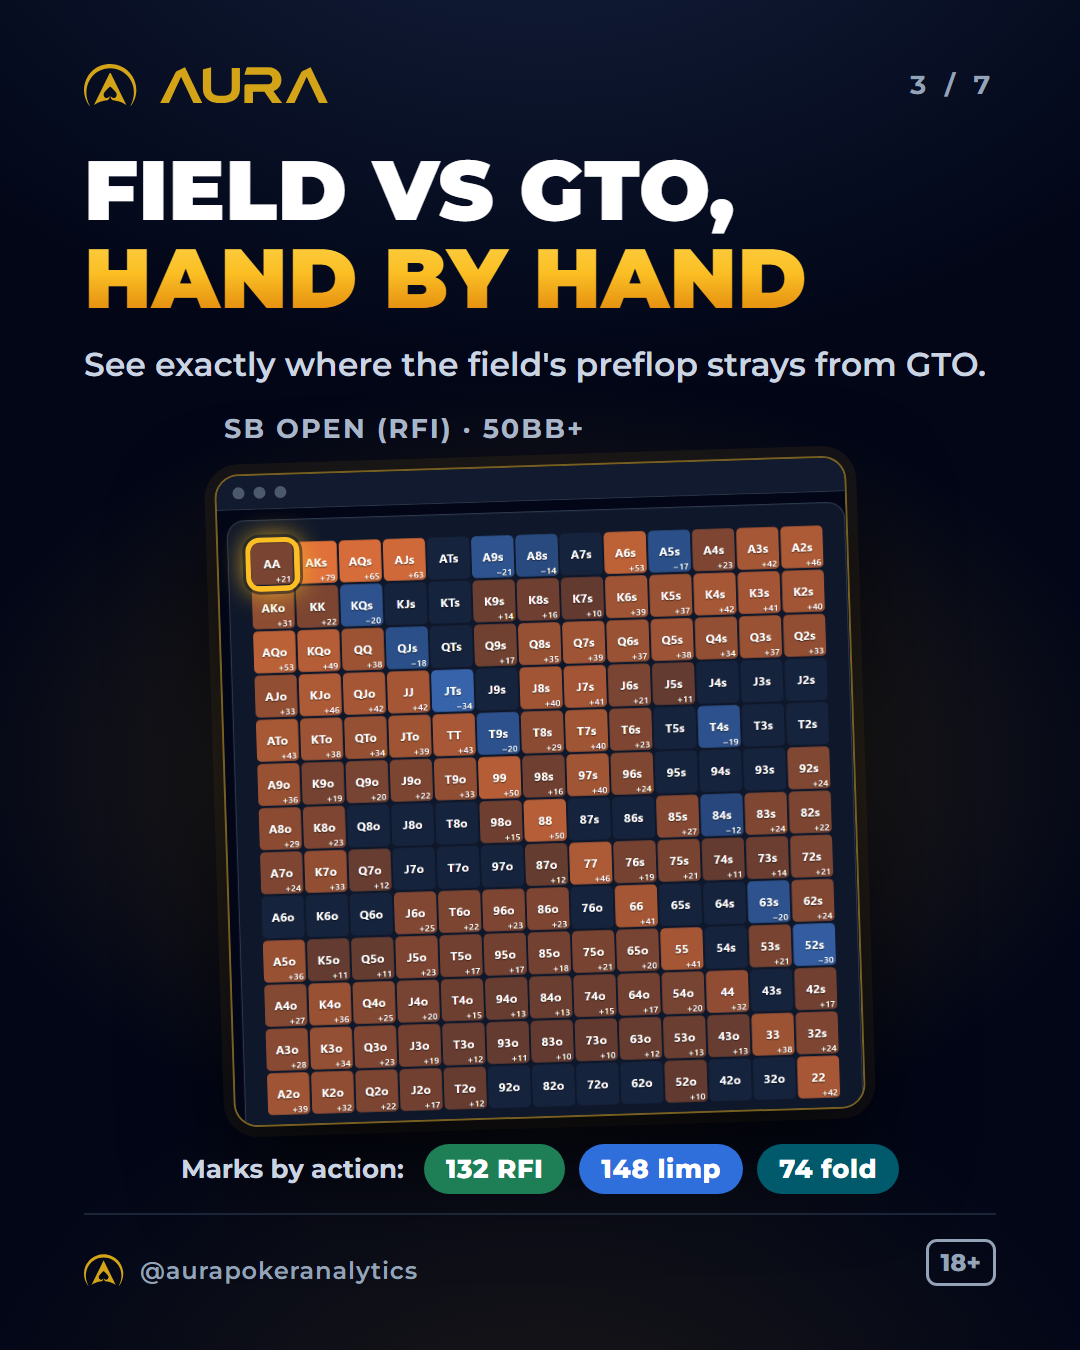
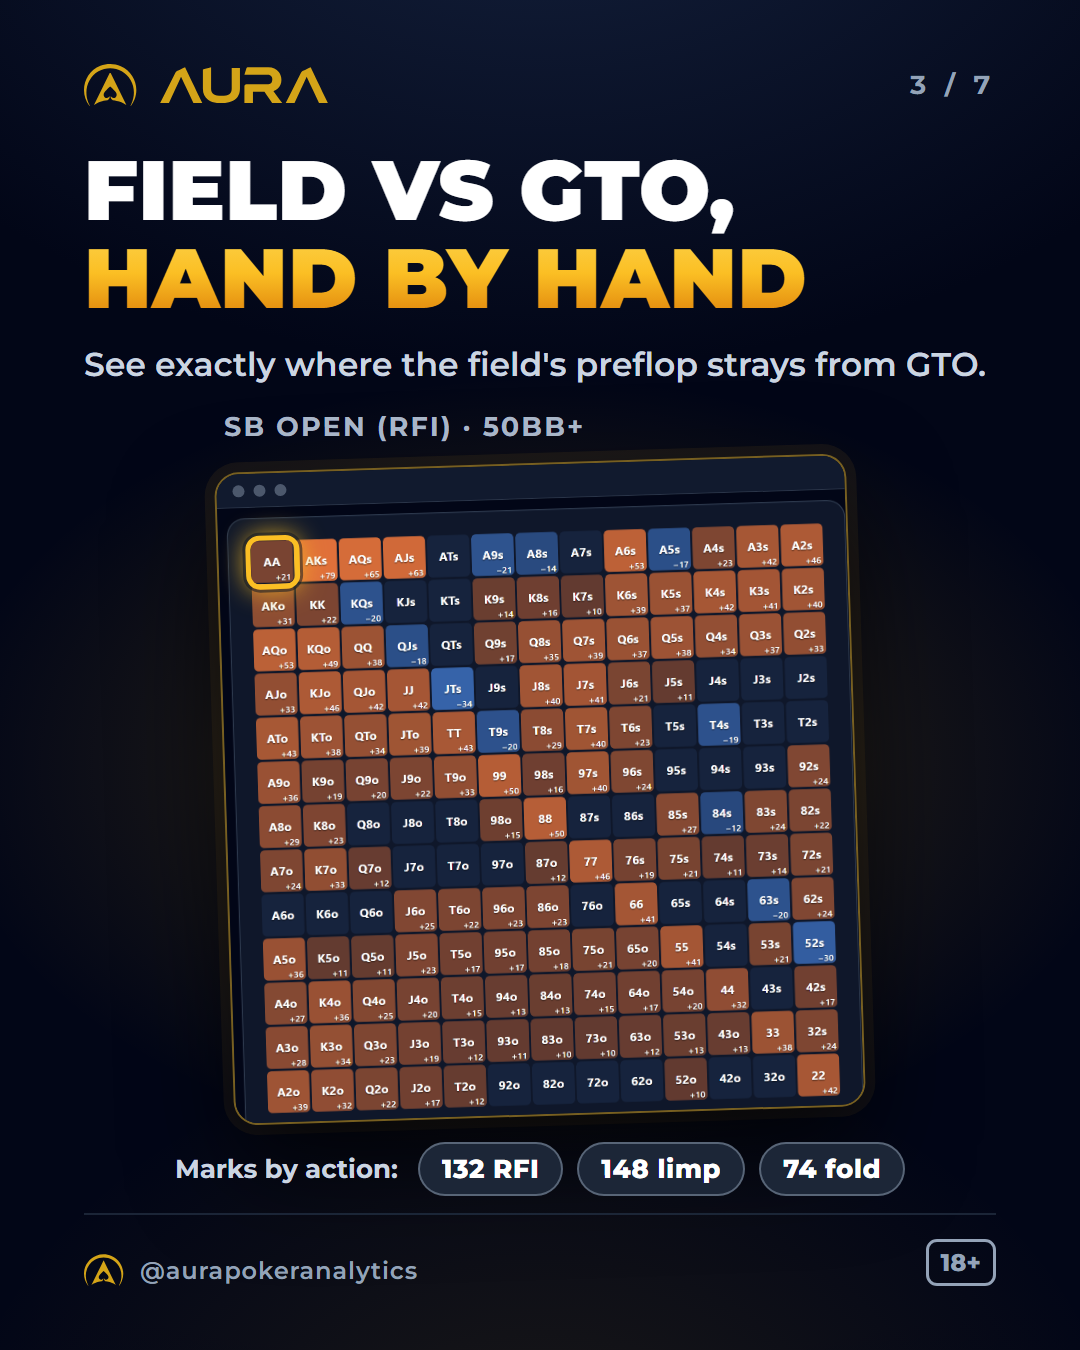
fix(modo-gto): pilulas neutras no slide Field vs GTO, legenda com marca e cores, docs alinhados

Changed region(s): [[0.1528, 0.3111, 0.8556, 0.9022]]

diff --git a/content/posts/modo-gto-launch/instagram/src/carrossel-en-03.html b/content/posts/modo-gto-launch/instagram/src/carrossel-en-03.html
@@ -18,7 +18,7 @@
 .pills { position: relative; z-index: 3; display: flex; align-items: center; gap: 14px; margin-top: 26px; }
 .pills .lab { font-size: 26px; font-weight: 700; color: var(--ink-soft); margin-right: 6px; }
 .pl { font-size: 26px; font-weight: 800; color: #fff; padding: 9px 22px; border-radius: 999px; letter-spacing: .02em; }
-.pr { background: #1E7F57; } .pc { background: #2F6FDB; } .pf { background: #015A6B; }
+.pr, .pc, .pf { background: rgba(30,41,59,.92); border: 2px solid rgba(148,163,184,.5); }
 </style></head>
 <body><div class="page h1350 ">
 

diff --git a/content/posts/modo-gto-launch/instagram/src/lib.py b/content/posts/modo-gto-launch/instagram/src/lib.py
@@ -20,11 +20,6 @@ NUMBERS = Path(os.environ.get("AURA_NUMBERS") or (SRC / "numbers.json"))   # AUR
 PRINTS = Path(os.environ.get("AURA_PRINTS_DIR") or (ROOT.parent / "_ops/golive-gto-2026-10-04/prints/prod"))
 PRINTS_MKT = Path(os.environ.get("AURA_PRINTS_MKT") or (ROOT.parent / "_ops/golive-gto-2026-10-14/prints-mkt"))   # capturas de 14/10 (turn)
 PRINTS_FVG = Path(os.environ.get("AURA_PRINTS_FVG") or (ROOT.parent / "_ops/golive-p53-2026-10-15/prints-mkt"))   # captura do Field vs GTO (Field Ranges)
-PRINT_NAMES = {            # arquivo esperado em PRINTS (png ou jpg) -> onde entra
-    "postflop-en": "carrossel slide 3 (Postflop com o Modo GTO ligado, spot N1)",
-    "preflop-en": "carrossel slide 4 (grade do pre-flop, celula N5 destacada, torneio Regular)",
-    "postflop-pt": "e-mail PT (mesmo spot N1, em PT)",
-}
 HANDLE = "@aurapokeranalytics"
 LANDING = "https://www.aurapoker.com/?utm_source=email&utm_medium=email&utm_campaign=modo-gto-launch&utm_content={lang}"
 

diff --git a/content/posts/modo-gto-launch/instagram/src/build.py b/content/posts/modo-gto-launch/instagram/src/build.py
@@ -299,7 +299,7 @@ def render_fvg(name, a, n, tag):
 .pills {{ position: relative; z-index: 3; display: flex; align-items: center; gap: 14px; margin-top: 26px; }}
 .pills .lab {{ font-size: 26px; font-weight: 700; color: var(--ink-soft); margin-right: 6px; }}
 .pl {{ font-size: 26px; font-weight: 800; color: #fff; padding: 9px 22px; border-radius: 999px; letter-spacing: .02em; }}
-.pr {{ background: #1E7F57; }} .pc {{ background: #2F6FDB; }} .pf {{ background: #015A6B; }}
+.pr, .pc, .pf {{ background: rgba(30,41,59,.92); border: 2px solid rgba(148,163,184,.5); }}
 """
     inner = lockup(indicator(a["idx"])) + f"""
 <div class="z t"><h1 class="title">{a['t']}</h1>{sub(a, n, 'fit')}</div>

diff --git a/content/posts/modo-gto-launch/copy.md b/content/posts/modo-gto-launch/copy.md
@@ -32,12 +32,12 @@ Peças deste pacote: Discord (também em `discord.md`), Instagram (feed, story, 
 9. **Second Barrel no slide 4.** Entra como contraste (dentro da faixa) ao lado do Turn Delayed CBet (acima do topo), do mesmo recorte largo do arquivo de 14/10. A captura `35d7005` só serve se mostrar esses valores; senão, barras da build.
 10. **Linha de fonte do preço (pedido à HUB).** As peças citam o preço do Individual (US$ 29 / R$ 150 mensal) e nenhum dos dois `numeros-verificados` tem linha de fonte para ele (`golive-gto-2026-10-04` e `golive-gto-2026-10-14/numeros-verificados-lancamento.md`). A HUB deve incluir uma linha de preço (Individual US$ 29 / R$ 150 mensal) em `numeros-verificados-lancamento.md`, com a origem (`pricing.ts`, `billingPlans.ts`, checkout/Stripe); até lá, a fonte é a indicação da HUB e a conferência do Rafael no Stripe.
 11. **GATE A2: frase da conta grátis.** "A conta grátis segue com o field e a comparação com o MDF" (feed PT e EN, Discord, landing, e-mail) só fica se o teste logado do Rafael confirmar, com uma conta Grátis, que ela continua vendo o field e a comparação com o MDF sem o número GTO. Se não confirmar, a frase sai de todas as peças.
-12. **GATE P-53: Field vs GTO (slide 3 e legenda do carrossel).** O Field vs GTO está no ar desde 15/10 (P-53), mas o teste logado do Rafael (`roteiro-conferencia-rafael.md`) precisa conferir as marcas 132 / 148 / 74 do SB open (RFI) a 50bb+ antes de qualquer post. Ressalvas: (a) a visão compara só spots com GTO, e a cobertura do Field Ranges × GTO é parcial: nenhuma peça fala em "todos os spots"; (b) o limiar das marcas (10 pp, `FieldRangesGtoMinSeverity=3`, com n ≥ 90 e o GTO fora do intervalo do field) pode mudar com o pin do GTO ou com a reagregação do field, e os números mudam junto (com 5 pp seriam outros); (c) as contagens se sobrepõem, porque uma mão pode ter marca em mais de uma ação; (d) a captura do slide 3 só vale se mostrar 132 / 148 / 74 e o AA com anel, sem o painel do AA.
+12. **GATE P-53: Field vs GTO (slide 3 e legenda do carrossel).** O Field vs GTO está no ar desde 15/10 (P-53), mas o teste logado do Rafael (`roteiro-conferencia-rafael.md`) precisa conferir as marcas 132 / 148 / 74 do SB open (RFI) a 50bb+ antes de qualquer post. Ressalvas: (a) a visão compara só spots com GTO, e a cobertura do Field Ranges × GTO é parcial: nenhuma peça fala em "todos os spots"; (b) o limiar das marcas (10 pp, `FieldRangesGtoMinSeverity=3`, com n ≥ 90 e o GTO fora do intervalo do field) pode mudar com o pin do GTO ou com a reagregação do field, e os números mudam junto (com 5 pp seriam outros); (c) as contagens se sobrepõem, porque uma mão pode ter marca em mais de uma ação; (d) a captura do slide 3 só vale se mostrar 132 / 148 / 74 e o AA com anel, sem o painel do AA; (e) **o teste logado do Rafael confere 132 / 148 / 74 com os mesmos filtros da captura** (todos os torneios, buy-ins e etapas, período padrão da tela) **e anota quais filtros usou**; a legenda diz "SB open at 50bb+ (GTO at 60bb)", e a definição de marca ("10 pp or more away from GTO") e o código de cores (laranja: o field abre a mão mais que o GTO; azul: menos; números = diferença em pp) vêm da tela e do P-53.
 
 ## Decisões registradas
 - **Cobertura (texto final, HUB 14/10).** PT: "GTO no flop, no turn e no river. No flop, a reação ao c-bet e ao raise. No turn e no river, também a frequência de aposta do agressor (second barrel, delayed c-bet, probe no turn, third barrel)." EN: "GTO on the flop, turn and river. On the flop, the response to the c-bet and to the raise. On the turn and river, also the aggressor's betting frequency (second barrel, delayed c-bet, turn probe, third barrel)." Nas legendas curtas e no e-mail, versão curta: "no flop, turn e river" e "inclusive as aberturas do agressor no turn e no river", com a lista só "second barrel, delayed c-bet e third barrel" quando houver lista (EN "on the flop, turn and river" e "including the aggressor's openings on the turn and river"; "second barrel, delayed c-bet and third barrel").
 - **Capa de lançamento (15/10, substitui a "capa com duas linhas" de 08/10).** A capa do carrossel ("GTO Mode is live") e a do story PT ("Modo GTO no ar") têm só título e UMA linha de apoio, que diz o plano com o preço e "por tempo limitado" ("Included in Individual (US$ 29/month) for a limited time." / "Incluso no plano Individual (R$ 150/mês) por tempo limitado."). A capa EN leva a pílula LIVE e a do story PT a pílula NO AR: são marcas de lançamento, não selo de desconto. Sai a micro-legenda do spot; não há mais exceção à regra de uma linha. No story PT, o spot vai como rótulo do gráfico ("CO × BB · c-bet de 33% · exemplo"), que não é uma segunda linha de apoio.
-- **Preço = plano; o temporário é a inclusão do GTO (decisão do Rafael via HUB, 15/10).** US$ 29 / R$ 150 é o preço normal do Individual. O preço aparece só na capa do carrossel, no slide 5 e no story da capa PT, com a moeda do idioma. Em cada arte, "limited time" / "por tempo limitado" aparece UMA vez. Nenhuma arte leva selo de oferta ou de desconto; as pílulas LIVE (carrossel) e NO AR (story PT) só marcam o lançamento. Sem data, sem "últimas horas", sem preço travado, sem promessa de que quem assina agora mantém o GTO, sem preço futuro, sem desconto semestral/anual. **Nota interna: o termo "early bird" está reservado para o lançamento do plano próprio e não aparece em nenhuma peça deste pacote.**
+- **Preço = plano; o temporário é a inclusão do GTO (decisão do Rafael via HUB, 15/10).** US$ 29 / R$ 150 é o preço normal do Individual. O preço aparece só na capa do carrossel, no slide 5 e no story da capa PT, com a moeda do idioma. Em cada arte, "limited time" / "por tempo limitado" aparece UMA vez. Nenhuma arte leva selo de oferta ou de desconto; as pílulas LIVE (carrossel) e NO AR (story PT) só marcam o lançamento. Sem data, sem "últimas horas", sem preço travado, sem promessa de que quem assina agora mantém o GTO, sem preço futuro, sem desconto semestral/anual. **Nota interna: o termo comercial anterior fica reservado ao plano próprio e não aparece em nenhuma peça deste pacote.**
 - **Carrossel só com legenda EN (revisão de 15/10).** A legenda PT do carrossel saiu: a PT fica no feed PT e no story, e a legenda do carrossel não mistura moedas.
 - **Carrossel de 7 slides, só em EN (15/10).** 1 capa de lançamento; 2 o exemplo do c-bet de 33% (Overfold); 3 Field vs GTO, mão a mão (Field Ranges, SB open a 50bb+); 4 turn e river com dois spots lado a lado (Second Barrel dentro da faixa, Turn Delayed CBet acima do topo); 5 pré-flop; 6 incluso no Individual (US$ 29/month); 7 CTA. Cada slide: título curto e no máximo UMA linha de apoio; a imagem fala.
 - **Slide 3 (Field vs GTO) mostra só as marcas (15/10).** Mostra as marcas por ação (132 RFI · 148 limp · 74 fold) e o AA com anel; o painel do AA com os números (GTO raise 56,5% / limp 43,5%; field 77,4% / 21,9%) fica fora do recorte, e nenhuma peça cita os números do AA fora da captura. "Limp" fica em inglês nas duas línguas. A cobertura do Field Ranges × GTO é parcial: o texto não promete todos os spots.
@@ -121,7 +121,7 @@ Em toda arte, além do título e da linha de apoio: logo AURA, `@aurapokeranalyt
 | Carrossel 6 | 1080x1350 | EN | GTO Mode is included in Individual | For a limited time. | O "US$ 29/month" gigante no centro, em âmbar, sobre o fundo da marca. Sem cadeado, sem selo de oferta, sem "de/por". "Limited time" uma vez só na arte |
 | Carrossel 7 (CTA) | 1080x1350 | EN | Get GTO Mode | Link in bio. | Logo e fundo da marca |
 
-Contagem de palavras (regra do Rafael): títulos de 3 a 7 palavras; apoios de 3 a 10 palavras (capa: 7; slide 2: 7 mais símbolos; slide 3: título de 6 palavras e apoio de 9; slide 4: 8; slide 5: 10; slide 6: 4 mais o número gigante (título de 5 palavras); slide 7: 3).
+Contagem de palavras (regra do Rafael): títulos de 3 a 7 palavras; apoios de 3 a 10 palavras (capa: 9; slide 2: 7 mais símbolos; slide 3: título de 6 palavras e apoio de 9; slide 4: 8; slide 5: 10; slide 6: apoio de 4 mais o número gigante, título de 6 palavras; slide 7: 3).
 
 Notas de arte:
 - **Cores:** fold em teal `#015A6B`; a distância entre a barra do field e a do GTO em âmbar (o gap). Faixa GTO sombreada em volta da barra do GTO. No slide 4, as barras são de aposta (frequência de bet), não de fold: usar a cor semântica do raise (`#AD2C34`) para a aposta, mantendo o gap em âmbar e a faixa sombreada. No Second Barrel o field está dentro da faixa: sem gap.
@@ -136,7 +136,7 @@ Notas de arte:
 
 ## Strings para o agente das artes e do HTML (não editei `instagram/src`)
 - **`build.py`:** `story-capa-pt` → título "Modo GTO<br><em>no ar</em>", apoio "Incluso no plano Individual (R$ 150/mês) por tempo limitado.", pílula NO AR, rótulo do gráfico "CO × BB · c-bet de 33% · exemplo" (no lugar do spot completo), sem segunda linha de apoio. `carrossel-en-01` → título "GTO Mode<br>is <em>live</em>", apoio "Included in Individual (US$ 29/month) for a limited time.", pílula LIVE, sem selo de oferta e sem micro-legenda. Slides 2 a 7 conforme a tabela acima (o slide 3 é o Field vs GTO, já feito pela fábrica); indicador "n / 7"; arquivos `carrossel-en-01` a `-07`.
-- **`numbers.json`:** novo bloco N11 para o Second Barrel (field 54.2; GTO centro 57.2, de 50.8, até 63.5; leitura: dentro da faixa, sem gap; fonte `numeros-verificados-lancamento.md`, 14/10); `N8`/`N9`/`N10` (Turn Delayed CBet: 51.7 / 44.1 / 37.8–50.3 / 1.4 acima do topo) seguem como estão. O valor antigo de `textos_com_numero.c6_apoio_en` ("Part of the US$ 29/month plan, for a limited time.") é substituído pelo novo abaixo; entram `c1_apoio_en` "Included in Individual (US$ 29/month) for a limited time.", `c1_apoio_pt` (story) "Incluso no plano Individual (R$ 150/mês) por tempo limitado.", `c1_rotulo_pt` (story) "CO × BB · c-bet de 33% · exemplo", `c3_titulo_en` "Field vs GTO, hand by hand", `c3_apoio_en` "See exactly where the field's preflop strays from GTO.", `c3_rotulo_en` "SB open (RFI) · 50bb+", `c3_legenda_en` "Marks by action: 132 RFI · 148 limp · 74 fold" (nova numeração: o slide 3 é o Field vs GTO), `c4_apoio_en` "Second barrel: inside the range. Delayed c-bet: above." (turn e river, antes `c3`), `c5_apoio_en` "CO RFI at 40bb: the field opens less than GTO." (pré-flop, antes `c4`), `c6_titulo_en` "GTO Mode is included in Individual", `c6_numero_en` "US$ 29/month" (o número gigante) e `c6_apoio_en` "For a limited time." (plano, antes `c5`); as chaves antigas `c3`/`c4`/`c5` saem para não duplicar. Marcas do Field vs GTO (registro, não vão como texto de arte além da legenda): raise 132, limp 148, fold 74, SB, RFI, 50bb+ (faixa 6), snapshot `20261010`. `email_under_pt` "O Modo GTO está incluso no plano Individual (R$ 150/mês) por tempo limitado. A conta grátis segue com o field e a comparação com o MDF. Poker é jogo de habilidade e estudo. 18+." e `email_under_en` "GTO Mode is included in the Individual plan (US$ 29/month) for a limited time. The free account keeps the field and the MDF comparison. Poker is a game of skill and study. 18+." Preheaders do e-mail: PT "Incluso no plano Individual, por tempo limitado. O GTO no flop, turn e river, ao lado do field." EN "Included in the Individual plan, for a limited time. GTO on the flop, turn and river, next to the field."
+- **`numbers.json`:** novo bloco N11 para o Second Barrel (field 54.2; GTO centro 57.2, de 50.8, até 63.5; leitura: dentro da faixa, sem gap; fonte `numeros-verificados-lancamento.md`, 14/10); `N8`/`N9`/`N10` (Turn Delayed CBet: 51.7 / 44.1 / 37.8–50.3 / 1.4 acima do topo) seguem como estão. `textos_com_numero.c6_apoio_en` ("Part of the US$ 29/month plan, for a limited time.") sai; entram `c1_apoio_en` "Included in Individual (US$ 29/month) for a limited time.", `c1_apoio_pt` (story) "Incluso no plano Individual (R$ 150/mês) por tempo limitado.", `c1_rotulo_pt` (story) "CO × BB · c-bet de 33% · exemplo", `c3_apoio_en` "Second barrel: inside the range. Delayed c-bet: above." (turn e river), `c4_apoio_en` "CO RFI at 40bb: the field opens less than GTO." (pré-flop), `c5_titulo_en` "GTO Mode is included in Individual", `c5_numero_en` "US$ 29/month" (o número gigante) e `c5_apoio_en` "For a limited time." (plano). Os nomes das chaves seguem o que o build usa, não o número do slide. O slide 3 (Field vs GTO) tem texto fixo em `build.py` (`fvg`), sem chave em `numbers.json`: título "Field vs GTO, hand by hand", apoio "See exactly where the field's preflop strays from GTO.", rótulo "SB open (RFI) · 50bb+", legenda "Marks by action: 132 RFI · 148 limp · 74 fold". Marcas do Field vs GTO (registro, não vão como texto de arte além da legenda): raise 132, limp 148, fold 74, SB, RFI, 50bb+ (faixa 6), snapshot `20261010`. `email_under_pt` "O Modo GTO está incluso no plano Individual (R$ 150/mês) por tempo limitado. A conta grátis segue com o field e a comparação com o MDF. Poker é jogo de habilidade e estudo. 18+." e `email_under_en` "GTO Mode is included in the Individual plan (US$ 29/month) for a limited time. The free account keeps the field and the MDF comparison. Poker is a game of skill and study. 18+." Preheaders do e-mail: PT "Incluso no plano Individual, por tempo limitado. O GTO no flop, turn e river, ao lado do field." EN "Included in the Individual plan, for a limited time. GTO on the flop, turn and river, next to the field."
 - **`build_email.py`:** assunto e h1 PT "Modo GTO no ar" e EN "GTO Mode is live" (o HTML do e-mail já foi atualizado pelo outro agente; aqui fica o registro); preheader conforme `email.md`. O corpo do e-mail (`email_corpo_*`, `email_preflop_*`) não muda.
 - **Aviso de moeda:** nenhuma string PT leva "US$" ou "R$ 29"; nenhuma string EN leva "R$".
 
@@ -191,7 +191,7 @@ Postflop: GTO on the flop, turn and river. On the flop, the response to the c-be
 
 Response: CO × BB single-raised pot (SRP), 30–60bb (GTO at 40bb), Regular tournaments, last 2 years, K-high two-tone, unpaired, disconnected flop, facing a 33% c-bet. The field folds 46.0% against GTO's 38.8% (range 37.1–40.4%): 5.6 pp above the top of the range. Here the field folds more than GTO does. This is one spot, not the field average. Check it on your board.
 
-Field vs GTO shows, hand by hand, where the field's preflop strays from GTO: in the SB open at 50bb+, 132 hands are marked on RFI, 148 on limp and 74 on fold. It compares the spots that have a GTO reference.
+Field vs GTO shows, hand by hand, where the field's preflop strays from GTO. The grid shows the RFI marks; limp and fold are counted the same way. A mark means the field is 10 pp or more away from GTO. In the SB open at 50bb+ (GTO at 60bb): 132 hands marked on RFI, 148 on limp, 74 on fold. Orange: the field opens the hand more than GTO; blue: less. Numbers are the gap in pp. It compares the spots that have a GTO reference.
 
 Opening: CO × BB single-raised pot (SRP), 30–60bb (GTO at 40bb), Regular tournaments, last 2 years, two-tone flop, any turn. On the turn, after the flop checks through, the CO bets (delayed c-bet): the field bets 51.7% and GTO bets 44.1% (range 37.8–50.3%): 1.4 pp above the top of the range. Here the field bets more than GTO does. In the same spot, the second barrel is inside the range: the field bets 54.2% and GTO 57.2% (range 50.8–63.5%). These are spots, not the field average.
 
